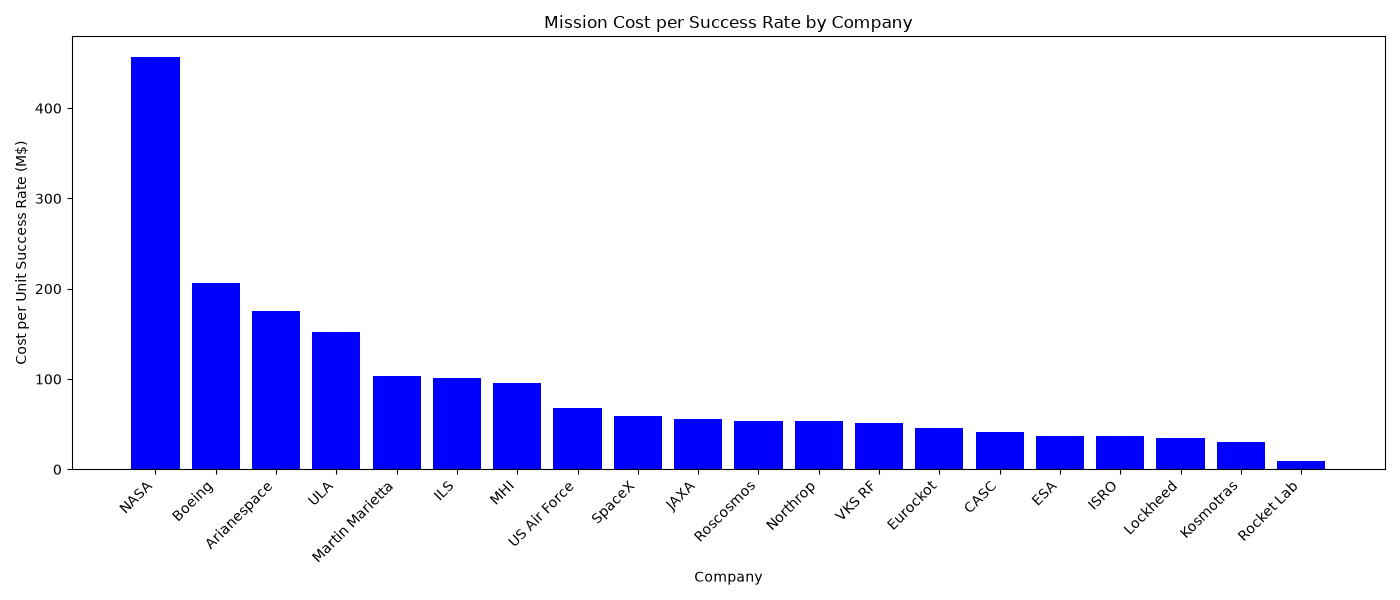
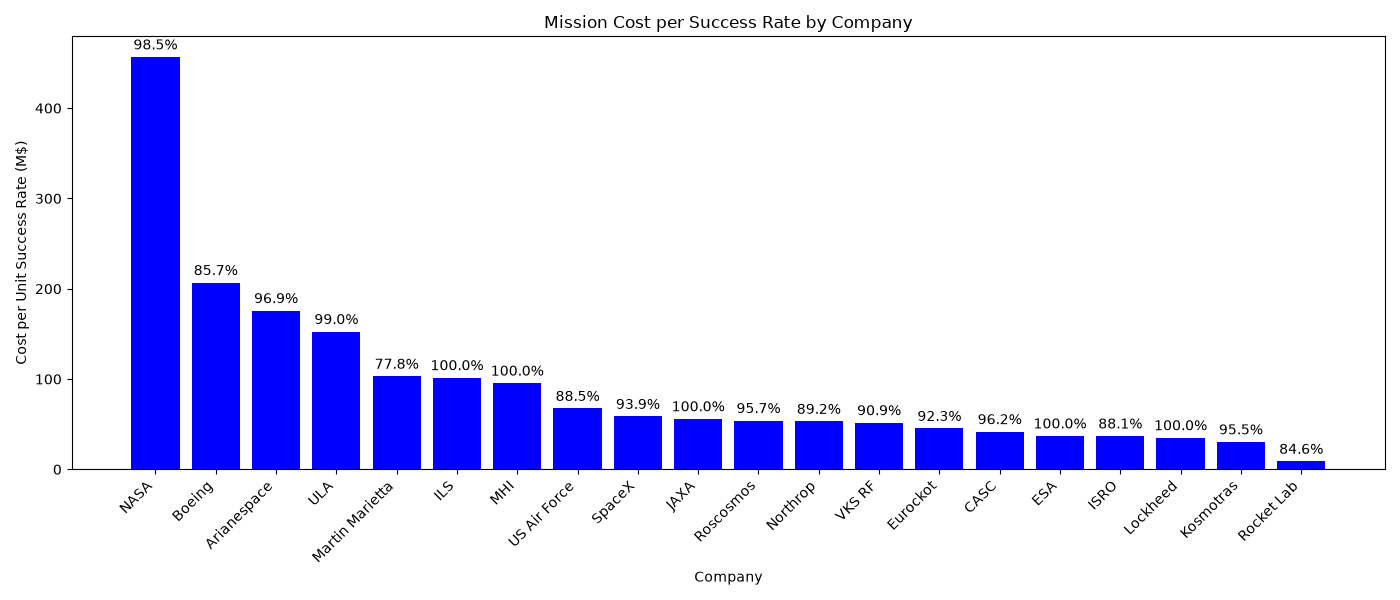
Assignment 10 - Add success completion rate to bar label

diff --git a/src/company_sucess_rate_cost.py b/src/company_sucess_rate_cost.py
@@ -30,7 +30,8 @@ if __name__ == '__main__':
     bar_width = 0.4
 
     fig, ax = plt.subplots(figsize=(14, 6))
-    ax.bar(x, stats["cost_per_success_rate"], color="blue")
+    bars = ax.bar(x, stats["cost_per_success_rate"], color="blue")
+    ax.bar_label(bars, labels=[f"{(r * 100):.1f}%" for r in stats["success_rate"]], padding=3)
     ax.set_xticks(list(x))
     ax.set_xticklabels(companies, rotation=45, ha="right")
     ax.set_xlabel("Company")